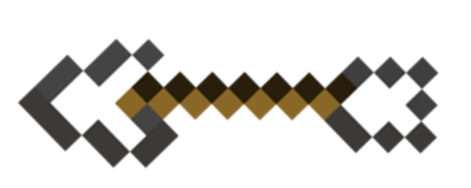
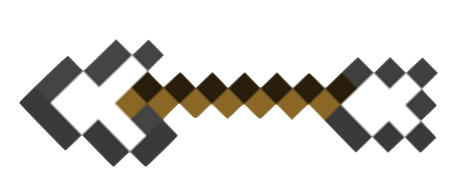
Added arrow.png and made arrow id to see if it made any difference

diff --git a/style.css b/style.css
@@ -96,11 +96,16 @@ height: 100%;
 
 
 
-.arrow{
-
+#arrow{
    background-image: url("img/arrow.png");
 
 }
+
+.block {
+  background-image: url("img/arrow.png");
+}
+
+
 
 #b {
     width: 15000px;

diff --git a/explore.html b/explore.html
@@ -25,8 +25,11 @@
 </div>
 
 
+<div id="arrow">
+</div>
 
-
+<div class="block">
+</div>
 
 
 
